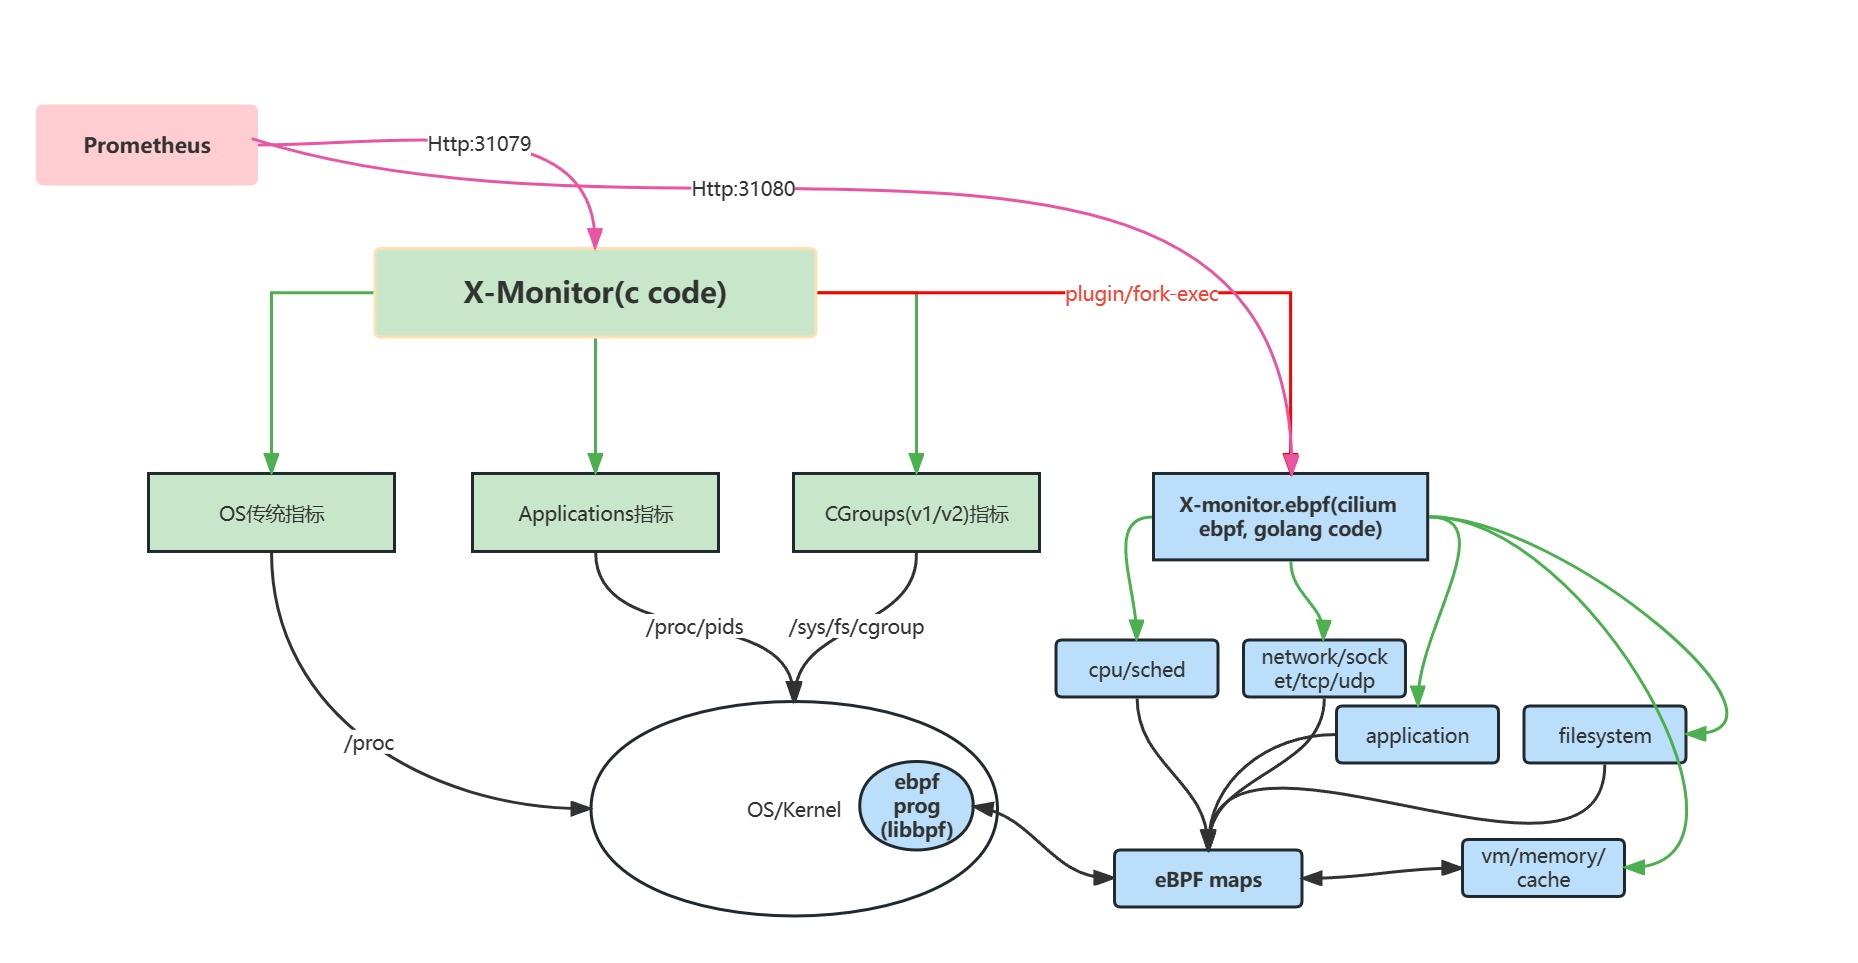
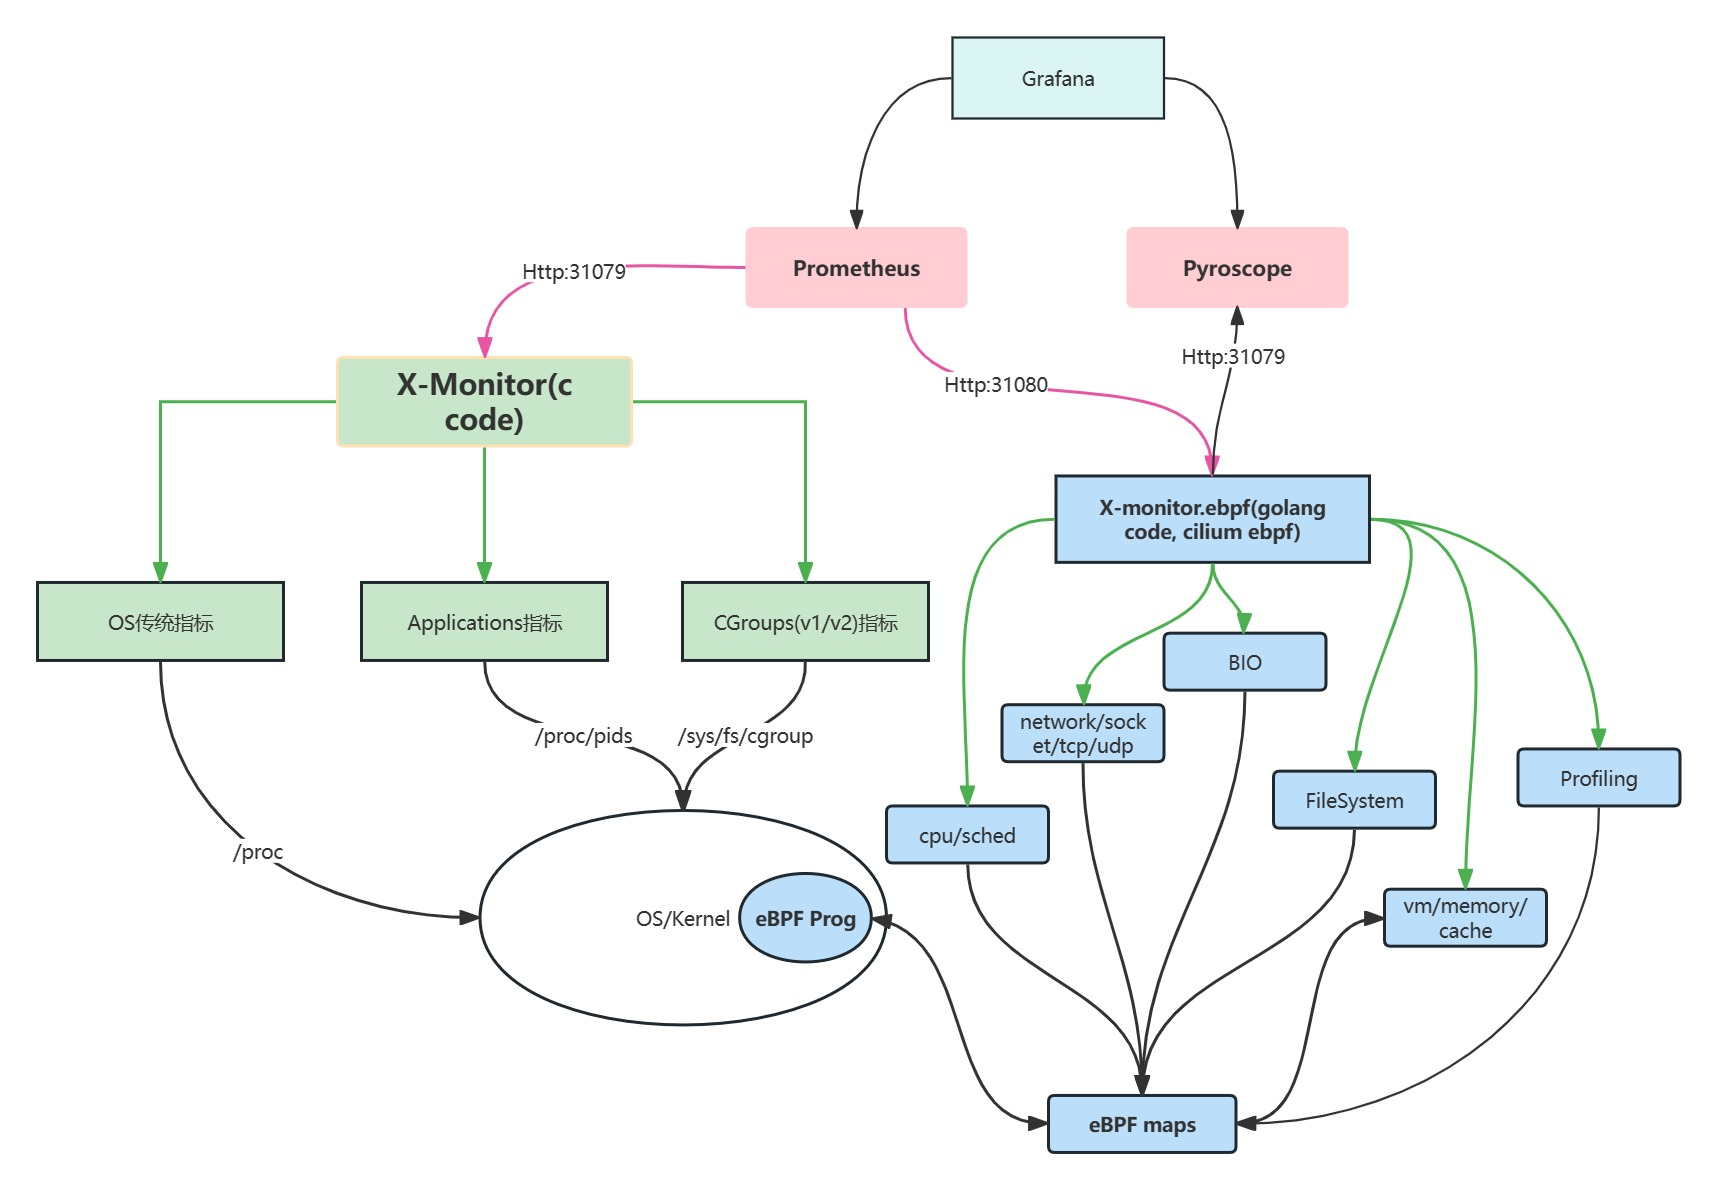
doc:

diff --git a/Readme.md b/Readme.md
@@ -12,6 +12,8 @@
 
 - eBPF 内核状态指标
 
+- 进程的Profiling，CPU Flame Graphs
+
 ## 详情
 
 1. [编译、运行](doc/编译、运行.md)
